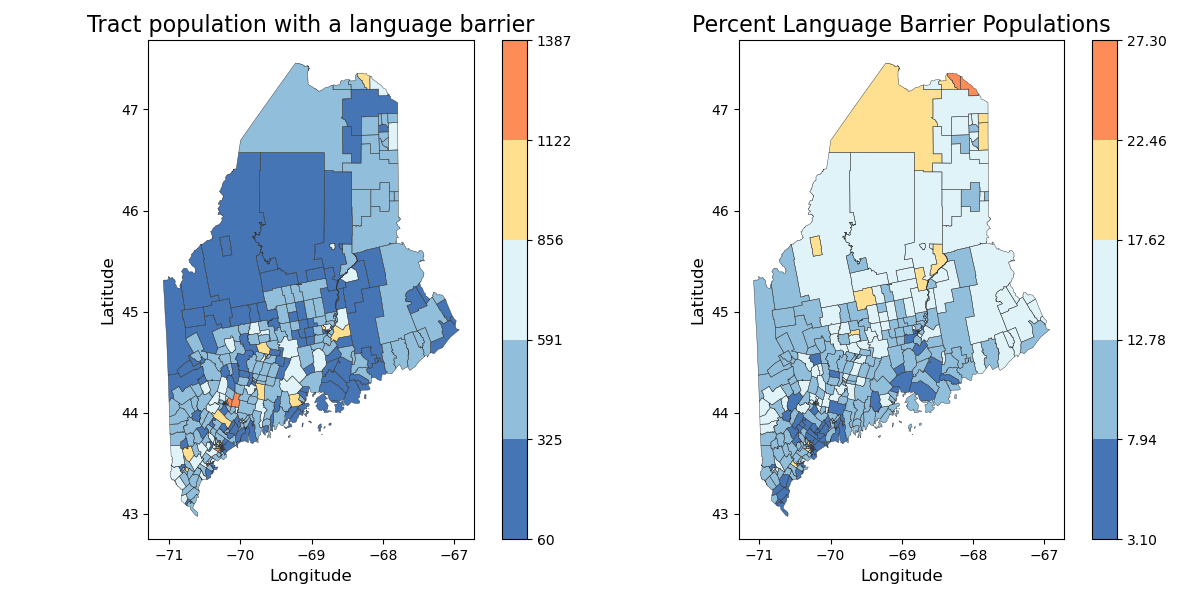
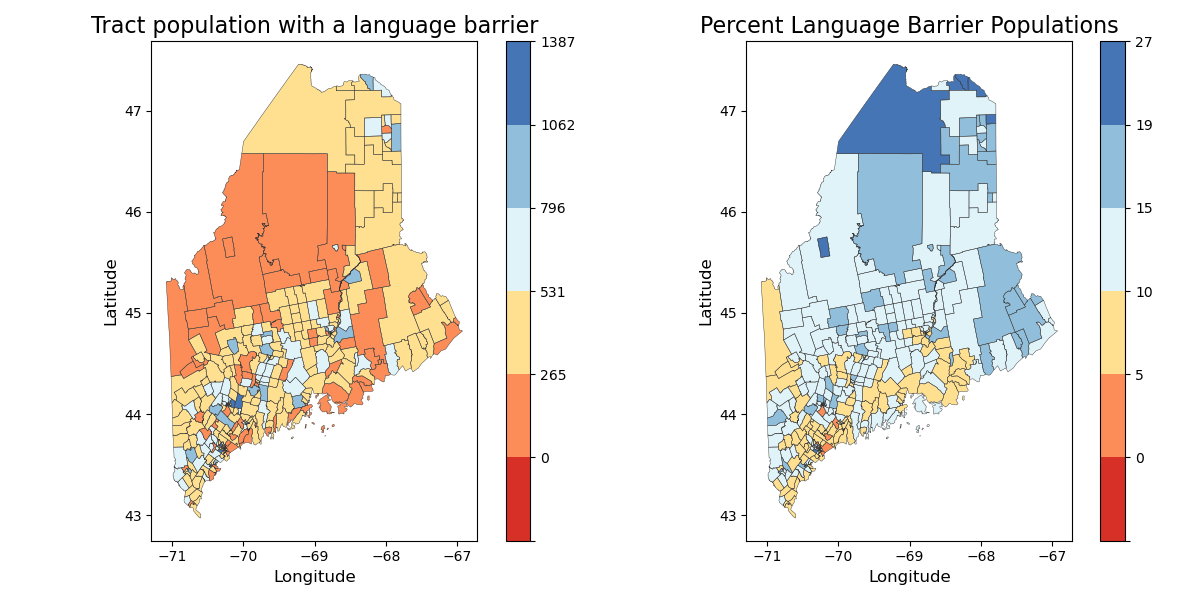
color changes

diff --git a/src/make_plots.py b/src/make_plots.py
@@ -29,22 +29,26 @@ def make_plot(gpd_obj, plot_obj):
         gpd_obj[plot_obj[index]] = pd.to_numeric(gpd_obj[plot_obj[index]], errors='coerce')
         gpd_obj[plot_obj[index]] = gpd_obj[plot_obj[index]].fillna(0)  # Data cleaning
     
-    inner_list = assign_colors.colors[0]
-    color_list = inner_list[:5]
+    color_list = assign_colors.colors[0][::-1]
 
     # Calculate the range for each color
     min_val = gpd_obj[plot_obj[0]].min()
     max_val = gpd_obj[plot_obj[0]].max()
     min_val2 = gpd_obj[plot_obj[2]].min()
     max_val2 = gpd_obj[plot_obj[2]].max()
-    interval = (max_val - min_val) / len(color_list)
-    interval2 = (max_val2 - min_val2) / len(color_list)
+    interval = (max_val - min_val) / (len(color_list)-1)
+    interval2 = (max_val2 - min_val2) / (len(color_list)-1)
 
     # Define color bins based on the range and color_list
-    color_bins_pop = [min_val + i * interval for i in range(len(color_list))]
+    color_bins_pop = [i * interval for i in range(len(color_list)-1)]
     color_bins_pop.append(max_val)  # Include the maximum value
-    color_bins_pct = [min_val2 + i * interval2 for i in range(len(color_list))]
+    color_bins_pct = [i * interval2 for i in range(len(color_list)-1)]
     color_bins_pct.append(max_val2)  # Include the maximum value
+    
+    # Add a negative lower boundary (adjust as needed)
+    lower_boundary = -1
+    color_bins_pop.insert(0, lower_boundary)
+    color_bins_pct.insert(0, lower_boundary)
 
     # Plotting combined data
     cmap_pop = mpl.colors.ListedColormap(color_list)
@@ -54,19 +58,29 @@ def make_plot(gpd_obj, plot_obj):
     fig, ax = plt.subplots(nrows=1, ncols=2, figsize=(12, 6))
 
     # Left side of fig plot details
-    gpd_obj.plot(column=plot_obj[0], cmap=cmap_pop, norm=norm_pop, legend=True, figsize=(8,8), ax=ax[0])
+    gpd_obj.plot(column=plot_obj[0], cmap=cmap_pop, norm=norm_pop, figsize=(8,8), ax=ax[0])
     gpd_obj.boundary.plot(ax=ax[0], linewidth=0.3, edgecolor='#333')
     ax[0].set_title(plot_obj[1], fontsize=16)
     ax[0].set_xlabel('Longitude', fontsize=12)
     ax[0].set_ylabel('Latitude', fontsize=12)
     
+    color_bins_pop_str = [str(round(value)) for value in color_bins_pop]
+    color_bins_pop_str[0] = ''
+    colorbar = fig.colorbar(ax[0].collections[0], ax=ax[0])  # Assuming a single plot on the axes
+    colorbar.ax.set_yticklabels(color_bins_pop_str)  # Example: Set custom tick labels
+    
     # Right side of fig plot details
-    gpd_obj.plot(column=plot_obj[2], cmap=cmap_pct, norm=norm_pct, legend=True, figsize=(8,8), ax=ax[1])
+    gpd_obj.plot(column=plot_obj[2], cmap=cmap_pct, norm=norm_pct, figsize=(8,8), ax=ax[1])
     gpd_obj.boundary.plot(ax=ax[1], linewidth=0.3, edgecolor='#333')
     ax[1].set_title(plot_obj[3], fontsize=16)
     ax[1].set_xlabel('Longitude', fontsize=12)
     ax[1].set_ylabel('Latitude', fontsize=12)
 
+    color_bins_pct_str = [str(round(value)) for value in color_bins_pct]
+    color_bins_pct_str[0] = ''
+    colorbar = fig.colorbar(ax[1].collections[0], ax=ax[1])  # Assuming a single plot on the axes
+    colorbar.ax.set_yticklabels(color_bins_pct_str)  # Example: Set custom tick labels
+    
     # Formatting
     plt.tight_layout()
         
